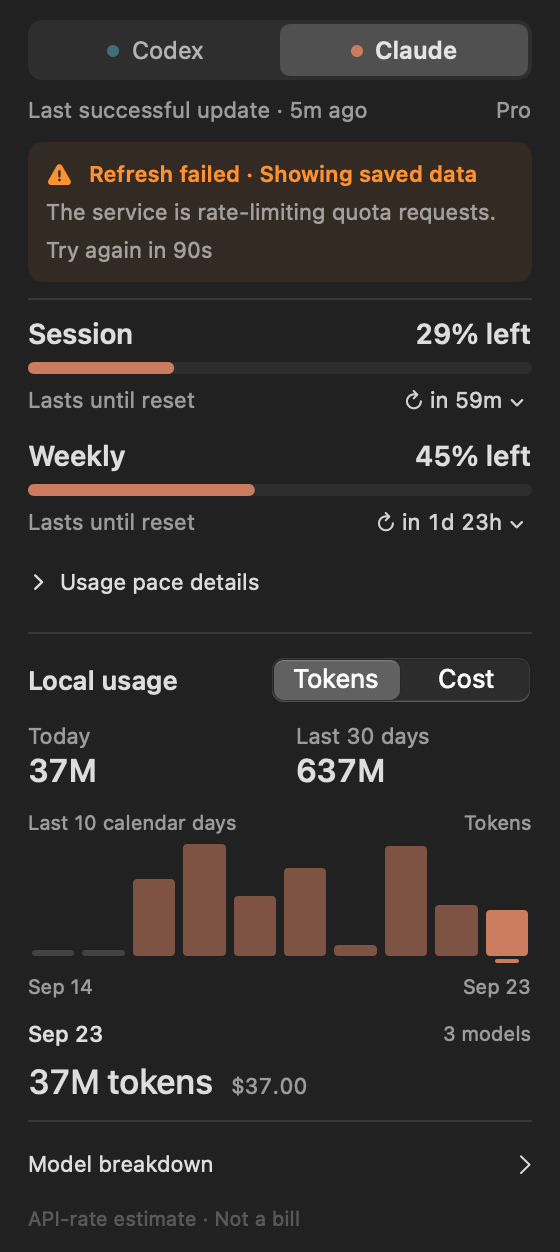
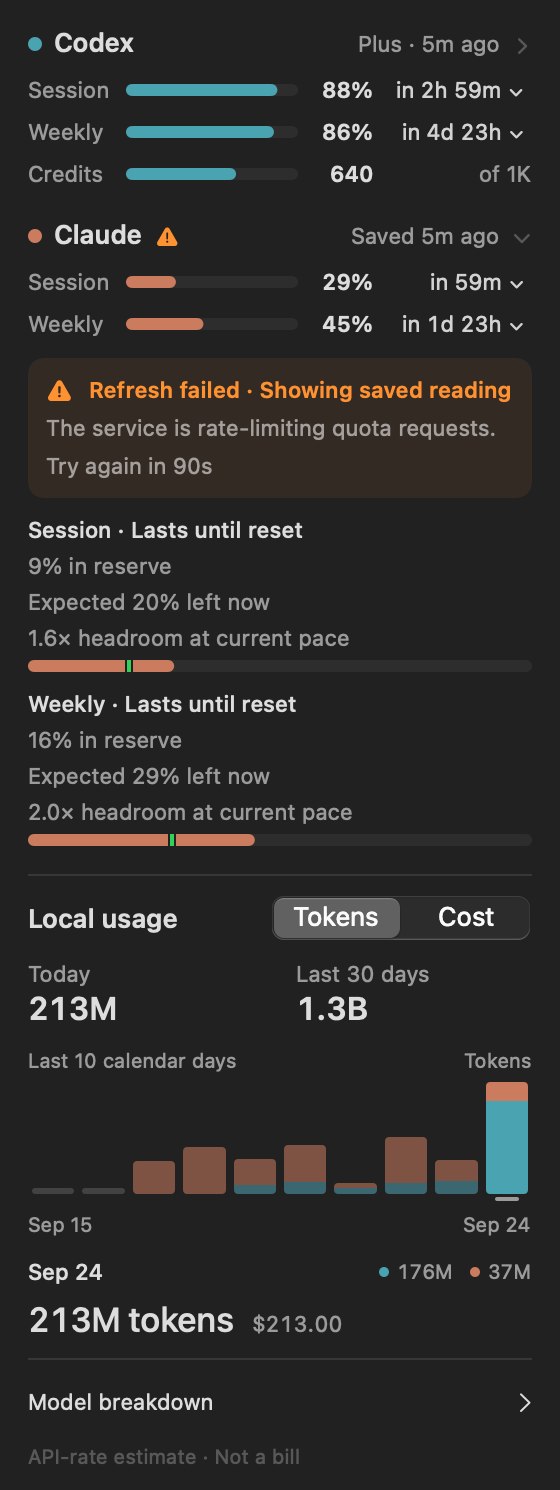
docs: describe the overview card and record why both providers refresh
Add ADR 0002 and the Quota terms to CONTEXT.md, update both READMEs and
the implementation notes, and regenerate the card screenshots and GIFs
from the overview.

Refs #64

diff --git a/README.md b/README.md
@@ -14,7 +14,7 @@ A macOS menu bar app for checking Codex and Claude quota, reset times, local tok
 [Install](#install) · [First launch](#first-launch) · [Quota](#how-quota-tracking-works) · [Cost](#how-cost-tracking-works) · [Reports](#exporting-a-usage-report) · [Pricing](#editing-model-prices) · [Development](#build-and-develop) · [Troubleshooting](#troubleshooting)
 
 <p align="center">
-  <img src="docs/images/hero.png" width="620" alt="Claude and Codex quota cards rendered with sample data">
+  <img src="docs/images/hero.png" width="620" alt="The QuotaBar card with Codex and Claude quota and combined local usage, collapsed and with Claude's details open, rendered with sample data">
 </p>
 
 Screenshots and animations use sample data. The app interface is in English; exported reports support Chinese and English. View the card in [dark](docs/images/interactions/main-dark.png) or [light](docs/images/interactions/main-light.png) appearance.
@@ -82,27 +82,27 @@ codex login
 claude
 ```
 
-Open QuotaBar, click its menu bar icon, and select **Codex** or **Claude**. Open [Settings](docs/images/settings-general.png) to choose a refresh interval or [edit model prices](#editing-model-prices).
+Open QuotaBar and click its menu bar icon to see Codex and Claude together. Open [Settings](docs/images/settings-general.png) to choose a refresh interval or [edit model prices](#editing-model-prices).
 
-If a provider is not signed in, choose **Copy command**, run the copied command in Terminal, then return and choose **Check sign-in**. Copying the command does not run it.
+If a provider is not signed in, its section shows the sign-in command. Choose **Copy**, run the command in Terminal, then click the provider's name and choose **Check sign-in**. Copying the command does not run it.
 
-Reading Claude credentials may trigger a macOS Keychain prompt. If a manual **Refresh** receives HTTP 401, QuotaBar lets Claude Code attempt one short credential refresh. Automatic refreshes never start Claude Code.
+Reading Claude credentials may trigger a macOS Keychain prompt, even if you only use Codex. If you cancel the prompt or leave it unanswered, QuotaBar stops checking Claude automatically until you choose **Ask again** in Claude's details or relaunch the app. If a manual **Refresh** receives HTTP 401, QuotaBar lets Claude Code attempt one short credential refresh. Automatic refreshes never start Claude Code.
 
 ## How quota tracking works
 
 ### Quota windows and usage pace
 
-Each limited quota window shows the percentage left and its reset time. Choose **Countdown** or **Clock time** in the reset-time control to update both limited windows. Unlimited sessions show **Session ∞** and **No limit**. Expand **Usage pace details** for reserve, deficit, and headroom.
+Each provider shows one row per quota window with the percentage left and its reset time. The reading turns orange when the window is being used faster than its pace allows, and red when it is empty. Choose **Countdown** or **Clock time** in any reset-time control to update every window. Unlimited sessions show **∞** and **No limit**. Click a provider's name, or press ⌘1 or ⌘2, for its reserve, deficit, and headroom; one provider's details are open at a time.
 
 QuotaBar compares consumption with time elapsed. After at least three comparable recorded weekly windows, history also informs the weekly pace. Samples are kept for 56 days.
 
-After QuotaBar detects a session or weekly reset, the next open plays a brief bar animation while the headline shows the new reading. The app respects macOS Reduce Motion.
+After QuotaBar detects a session or weekly reset, the next open plays a brief bar animation while the reading beside it shows the new value. The app respects macOS Reduce Motion.
 
 <details>
 <summary>Quota reset animation</summary>
 
 <p align="center">
-  <img src="docs/images/quota-reset.gif" width="560" alt="Brief quota reset feedback while the headline keeps the new reading">
+  <img src="docs/images/quota-reset.gif" width="560" alt="Brief quota reset feedback while the reading keeps the new value">
 </p>
 
 </details>
@@ -111,11 +111,11 @@ After QuotaBar detects a session or weekly reset, the next open plays a brief ba
 
 Choose manual refresh or an interval of 1, 2, 5, 15, or 30 minutes in Settings. The default is 5 minutes.
 
-- Polling, opening the card, and clicking **Refresh** update only the selected provider. Switching tabs requests an update for the newly selected provider.
-- Each provider has a one-minute refresh cooldown. A server rate limit can extend the wait.
+- Polling, opening the card, and clicking **Refresh** update both providers.
+- Each provider has its own one-minute refresh cooldown. A server rate limit can extend the wait. **Refresh** is available while either provider can refresh.
 - An explicit Claude credential-recovery action can bypass the local cooldown, but still respects the server limit.
 
-A failed refresh keeps the last good quota and shows its age and recovery instructions at the top. The retry control shows the remaining wait when a cooldown applies. Local scanning has its own progress and **Retry local scan** action.
+A failed refresh keeps the last good quota and marks the provider with a warning. Click its name for the reading's age and recovery instructions. The retry control shows the remaining wait when a cooldown applies. Each provider's local scan has its own progress and retry action.
 
 <details>
 <summary>Sign-in and refresh-failure examples</summary>
@@ -123,8 +123,8 @@ A failed refresh keeps the last good quota and shows its age and recovery instru
 <table align="center">
   <tr><th>Sign-in guidance</th><th>Refresh failure with saved quota</th></tr>
   <tr>
-    <td valign="top"><img src="docs/images/interactions/sign-in.png" width="280" alt="Codex sign-in card with a copyable CLI command and Check sign-in button"></td>
-    <td valign="top"><img src="docs/images/interactions/refresh-failed.png" width="280" alt="Refresh warning above saved quota, with its age and retry countdown"></td>
+    <td valign="top"><img src="docs/images/interactions/sign-in.png" width="280" alt="Codex details with a copyable CLI command and Check sign-in button, above Claude's quota"></td>
+    <td valign="top"><img src="docs/images/interactions/refresh-failed.png" width="280" alt="Claude details with a refresh warning below its saved quota, the retry countdown, and pace details"></td>
   </tr>
 </table>
 
@@ -132,7 +132,7 @@ A failed refresh keeps the last good quota and shows its age and recovery instru
 
 ### Menu bar and shortcuts
 
-The menu bar robot reflects the selected provider's quota and refresh status. It turns red when either the session or weekly window has 10% or less left. It dims after a failed refresh and fades further when no data is available.
+The menu bar robot reports the quota window with the least left across signed-in providers. It turns red when any session or weekly window has 10% or less left. It dims when a provider with saved quota fails to refresh, and fades further when no data is available. Its tooltip lists both providers.
 
 <p align="center">
   <img src="docs/images/menu-bar-icons.png" width="440" alt="Menu bar robot states: normal, running low, refresh failed, and no data">
@@ -142,16 +142,16 @@ The icon is Material Design Icons' `robot-excited`. The card scrolls when needed
 
 | Shortcut | Action |
 | --- | --- |
-| ⌘1 / ⌘2 | Show Codex / Claude |
+| ⌘1 / ⌘2 | Open or close Codex / Claude details |
 | ⌘R | Refresh or check sign-in, when available |
 | ⌘, | Open settings |
 | ⌘Q | Quit, with a prompt for unsaved price edits |
 | Esc | Close the card |
 
 <details>
-<summary>Mouse, tab, and motion behavior</summary>
+<summary>Mouse and motion behavior</summary>
 
-Provider tabs have equal widths and fixed label positions. The selected tab has a highlighted background and bold name; hover adds a lighter highlight. Left clicks toggle the card on mouse-down, right clicks on mouse-up. Buttons respond on press, and expanded rows appear together. Reduce Motion removes custom transitions while keeping pressed and selected states visible.
+Codex is always listed first and Claude second, so each provider keeps its place. Opening one provider's details closes the other's. Left clicks toggle the card on mouse-down, right clicks on mouse-up. Buttons respond on press, and expanded rows appear together. Reduce Motion removes custom transitions while keeping pressed and selected states visible.
 
 </details>
 
@@ -161,7 +161,7 @@ QuotaBar calculates token and cost totals from local session data. It does not u
 
 ### Reading the chart
 
-Choose **Tokens** or **Cost** above the chart. The chart covers ten calendar days; totals cover the last 30 days. Hover to preview a day, click to pin it, or use Left and Right Arrow when a date is focused. **Model breakdown** lists that day's models and keeps the date fixed. Reopen the card to resume hover previews. Switching units preserves the selected date.
+Local usage combines both providers. Choose **Tokens** or **Cost** above the chart. The chart covers ten calendar days and stacks each provider in its color; the selected day shows each provider's share. Totals cover the last 30 days. Hover to preview a day, click to pin it, or use Left and Right Arrow when a date is focused. **Model breakdown** lists that day's models by provider and keeps the date fixed. Reopen the card to resume hover previews. Switching units preserves the selected date.
 
 Missing information has a separate display from zero usage:
 
@@ -170,7 +170,7 @@ Missing information has a separate display from zero usage:
 | **0** or **$0.00** | The scanned value is zero at the displayed precision. The chart shows a solid gray stub for the date. Missing prices have a separate status. |
 | **—**, **Not scanned yet** | The date is later than the last completed scan and has no recorded usage yet. The chart shows a dashed stub for the date. |
 | **—**, **Unpriced** | Usage is recorded, but no cost can be estimated from its model rates. In Cost view, the chart shows a dashed stub for the date. |
-| **Partial estimate** | The amount includes priced usage only; unpriced usage is excluded. |
+| **Partial estimate** | The amount includes priced usage only; unpriced usage is excluded. A combined total is partial when either provider's is. |
 
 Add missing rates in **Settings → Pricing**. Costs are recalculated for all recorded usage of that model.
 
@@ -178,7 +178,7 @@ Add missing rates in **Settings → Pricing**. Costs are recalculated for all re
 <summary>Chart date previews</summary>
 
 <p align="center">
-  <img src="docs/images/chart-hover.gif" width="560" alt="Chart date previews with token totals and a collapsed Model breakdown">
+  <img src="docs/images/chart-hover.gif" width="560" alt="Combined chart date previews with each provider's share and a collapsed Model breakdown">
 </p>
 
 </details>
@@ -348,9 +348,9 @@ To publish a release, push a tag matching `vMAJOR.MINOR.PATCH`. The tag supplies
 
 | Problem | What to check |
 | --- | --- |
-| Provider is not signed in | Copy the command in the card, complete the CLI login, then choose **Check sign-in**. Use `make probe` for the raw error. |
-| Data is stale or refresh returns HTTP 429 | Read the warning above the saved quota. Wait for the retry countdown, then retry; a server limit may last longer than one minute. |
-| Local scan failed | Read the local usage error and choose **Retry local scan**. Confirm the CLI writes session logs to the paths above. |
+| Provider is not signed in | Copy the command in the provider's section, complete the CLI login, then click the provider's name and choose **Check sign-in**. Use `make probe` for the raw error. |
+| Data is stale or refresh returns HTTP 429 | Click the provider with a warning and read its details. Wait for the retry countdown, then retry; a server limit may last longer than one minute. |
+| Local scan failed | Read the local usage error and choose **Retry Codex scan** or **Retry Claude scan**. Confirm the CLI writes session logs to the paths above. |
 | Cost shows Unpriced or Partial estimate | Add missing model rates in **Settings → Pricing**. Recorded usage of that model is priced as well. |
 | A date shows Not scanned yet | Wait for the local scan to finish. This means the date is not covered yet, rather than zero usage. |
 | Price changes cannot be saved | Correct the marked fields. If saving failed, the draft remains available to retry or discard. |

diff --git a/docs/design-implementation.md b/docs/design-implementation.md
@@ -4,8 +4,8 @@ This implementation follows the approved interaction proposal. The original befo
 
 ## What changed
 
-- The status card uses a native `NSPopover`. On macOS 27, AppKit's expanded interface session owns its opening and status-button highlight. A repeated icon click, an outside click, Escape, or a closing action cancels the session. Earlier systems use application-managed dismissal and selection. Opening preserves the foreground application. Native controls provide focus, reset-time menus, unit selection, date selection, and disclosure. The 280 pt width remains fixed; tall content scrolls while Refresh, Settings, and Quit remain available below it. Closing the popover stops its clocks. Provider-switch animation preserves the tab's identity while resetting provider-specific content.
-- Cmd-R dispatches through a validated AppKit application command, Cmd-1 / Cmd-2 switch providers, Cmd-comma opens settings, and Escape closes the popover. Edit commands use the responder chain for normal text editing in settings.
+- The status card uses a native `NSPopover`. On macOS 27, AppKit's expanded interface session owns its opening and status-button highlight. A repeated icon click, an outside click, Escape, or a closing action cancels the session. Earlier systems use application-managed dismissal and selection. Opening preserves the foreground application. Native controls provide focus, reset-time menus, unit selection, date selection, and disclosure. The 280 pt width remains fixed; tall content scrolls while Refresh, Settings, and Quit remain available below it. Closing the popover stops its clocks. Since [ADR 0002](adr/0002-show-and-refresh-both-providers.md), the card shows both providers at once; each provider's header opens its detail in place, one provider at a time.
+- Cmd-R dispatches through a validated AppKit application command, Cmd-1 / Cmd-2 open or close Codex / Claude details, Cmd-comma opens settings, and Escape closes the popover. Edit commands use the responder chain for normal text editing in settings.
 - Signed-out cards preserve the provider's reason and offer the correct CLI command, copy feedback, and a Check sign-in action. Copying a command does not execute it. Credentials and permission errors retain their separate recovery paths.
 - Refresh failures retain quota readings and show the last successful update near a warning. Server and local cooldowns jointly determine when retry is available. A local usage scan exposes its own progress, failure, and retry.
 - Pricing validates finite nonnegative rates and positive integer thresholds before persistence. Invalid text cannot implicitly remove an override. Restore defaults and Discard are explicit draft operations. Saving prevents duplicate writes; errors preserve edits. Table reloads cannot replace a draft created while their asynchronous work was pending. Quitting protects unsaved edits, with Cancel as the default when an invalid draft cannot be saved.
@@ -18,7 +18,7 @@ The status card opens at its final size on left mouse-down, without the native p
 
 Opening the card does not activate the app. The first click or keyboard interaction inside it waits for the app's foreground activation before reaching a control. Otherwise, the activation notification can cancel a newly opened native reset-time menu, requiring a second click. Pending events retain their order and are discarded when the card closes. Escape bypasses activation. On macOS 27, `NSApp.isActive` can already be true during a status-item session, so the input handler checks the foreground process and explicitly requests activation.
 
-Custom buttons acknowledge a press immediately through opacity and restore it over 100 ms. Tab selection settles within 180 ms when clicked; keyboard switches (⌘-number shortcuts or Space on a focused tab) change selection without animation. Usage bars glide to a refreshed value over 250 ms. Disclosure chevrons and pricing expansion settle within 160 ms, and chart hover feedback uses a short critically damped response. Pricing rows appear together without stagger or scale effects. Unit changes update chart heights and labels together. These timings are project choices guided by brief feedback and uninterrupted interaction, not fixed Apple requirements.
+Custom buttons acknowledge a press immediately through opacity and restore it over 100 ms. Settings tab selection settles within 180 ms when clicked; keyboard switches change selection without animation. Usage bars glide to a refreshed value over 250 ms. Disclosure chevrons and pricing expansion settle within 160 ms, and chart hover feedback uses a short critically damped response. Pricing rows appear together without stagger or scale effects. Unit changes update chart heights and labels together. These timings are project choices guided by brief feedback and uninterrupted interaction, not fixed Apple requirements.
 
 Reduce Motion makes dismissal immediate and removes custom control transitions while preserving pressed and selected states. The card reads the preference at dismissal, including changes made while it is open. Opening never scales or slides, regardless of the preference. Native links, menus, segmented pickers, and bordered buttons retain their system feedback.
 

diff --git a/docs/adr/0002-show-and-refresh-both-providers.md b/docs/adr/0002-show-and-refresh-both-providers.md
@@ -1,0 +1,14 @@
+# Show and refresh both providers
+
+The status card shows Codex and Claude together, and every refresh fetches both. Until now the card showed one provider at a time and only that provider was polled, so switching providers could reveal a reading hours old. We accepted twice the quota requests, each still limited by its own provider's cooldown and server retry deadline, so that no reading on screen is older than the polling interval.
+
+## Considered options
+
+- **Keep one provider on show and add a compact summary of the other.** The summary would still show a reading that is never refreshed.
+- **Refresh the hidden provider only when the card opens.** Every opening would first show the old reading and then change under the pointer.
+
+## Consequences
+
+- The "Showing" setting is gone. The menu bar icon reports the tightest window across signed-in providers instead of the chosen one.
+- Reading Claude's credentials can raise a keychain prompt for people who never chose Claude. If the prompt is cancelled or times out, automatic polling skips Claude until the user retries or relaunches, so the prompt appears at most once per launch.
+- Local usage is scanned for both providers after launch, so the first scan reads both log trees.

diff --git a/CONTEXT.md b/CONTEXT.md
@@ -31,3 +31,17 @@ _Avoid_: above-threshold pricing
 **Fast**:
 Codex's priority service tier, billed as a multiple of the period's Standard rates.
 _Avoid_: priority tier
+
+## Quota
+
+**Quota window**:
+A provider's Session or Weekly allowance: a remaining percentage that refills at a reset time.
+_Avoid_: limit, bucket
+
+**Tightest window**:
+The quota window with the least remaining across all signed-in providers. A window whose reset time has passed counts as full. The menu bar icon reports it.
+_Avoid_: worst window, lowest quota
+
+**Saved reading**:
+A provider's last successful quota reading, still shown after a later refresh fails.
+_Avoid_: stale data, cache, last-good reading
